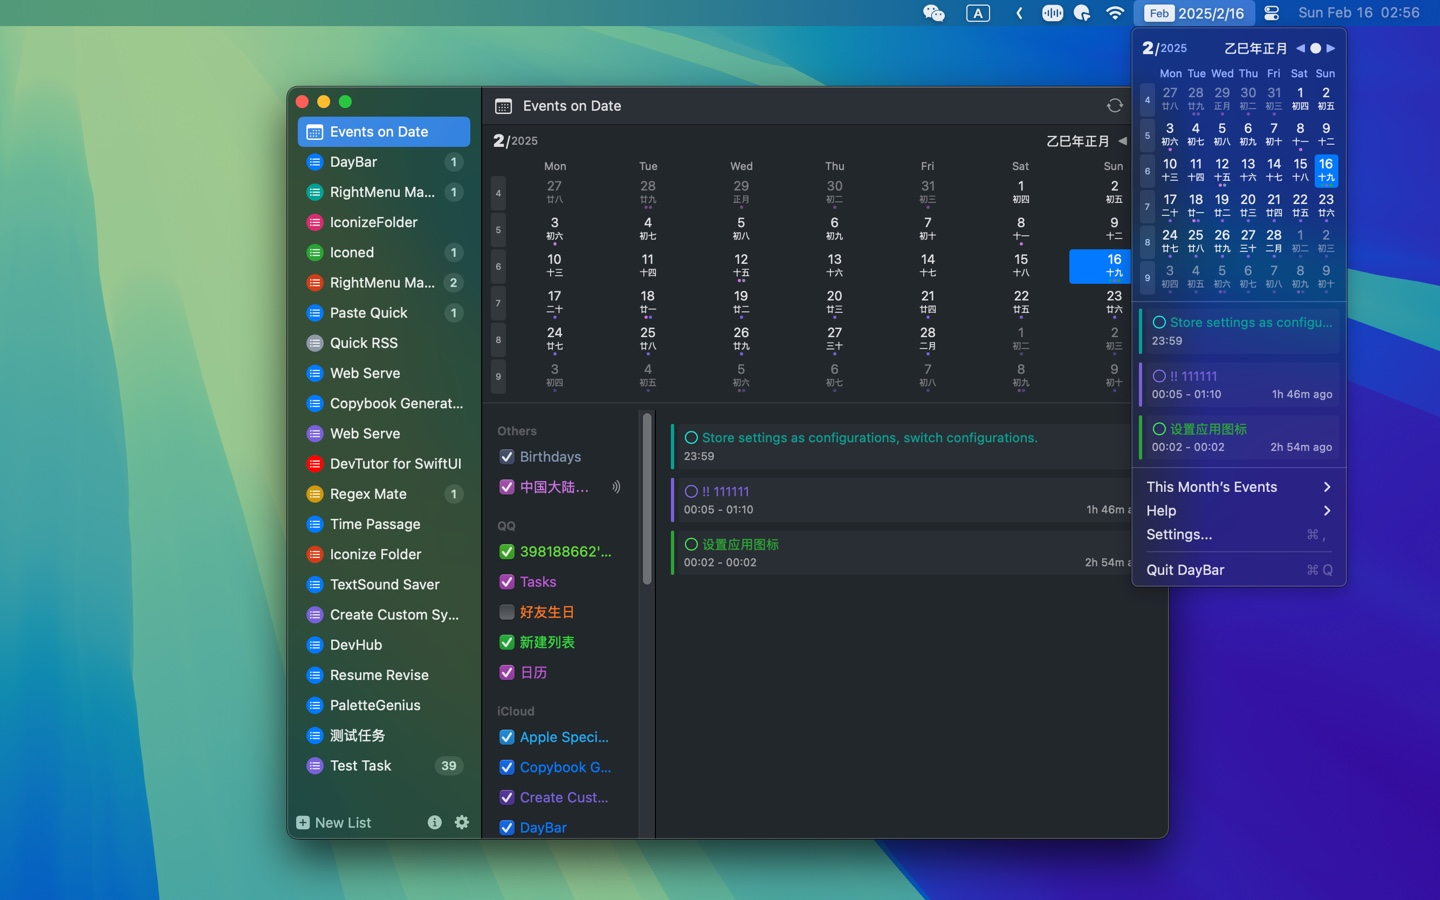
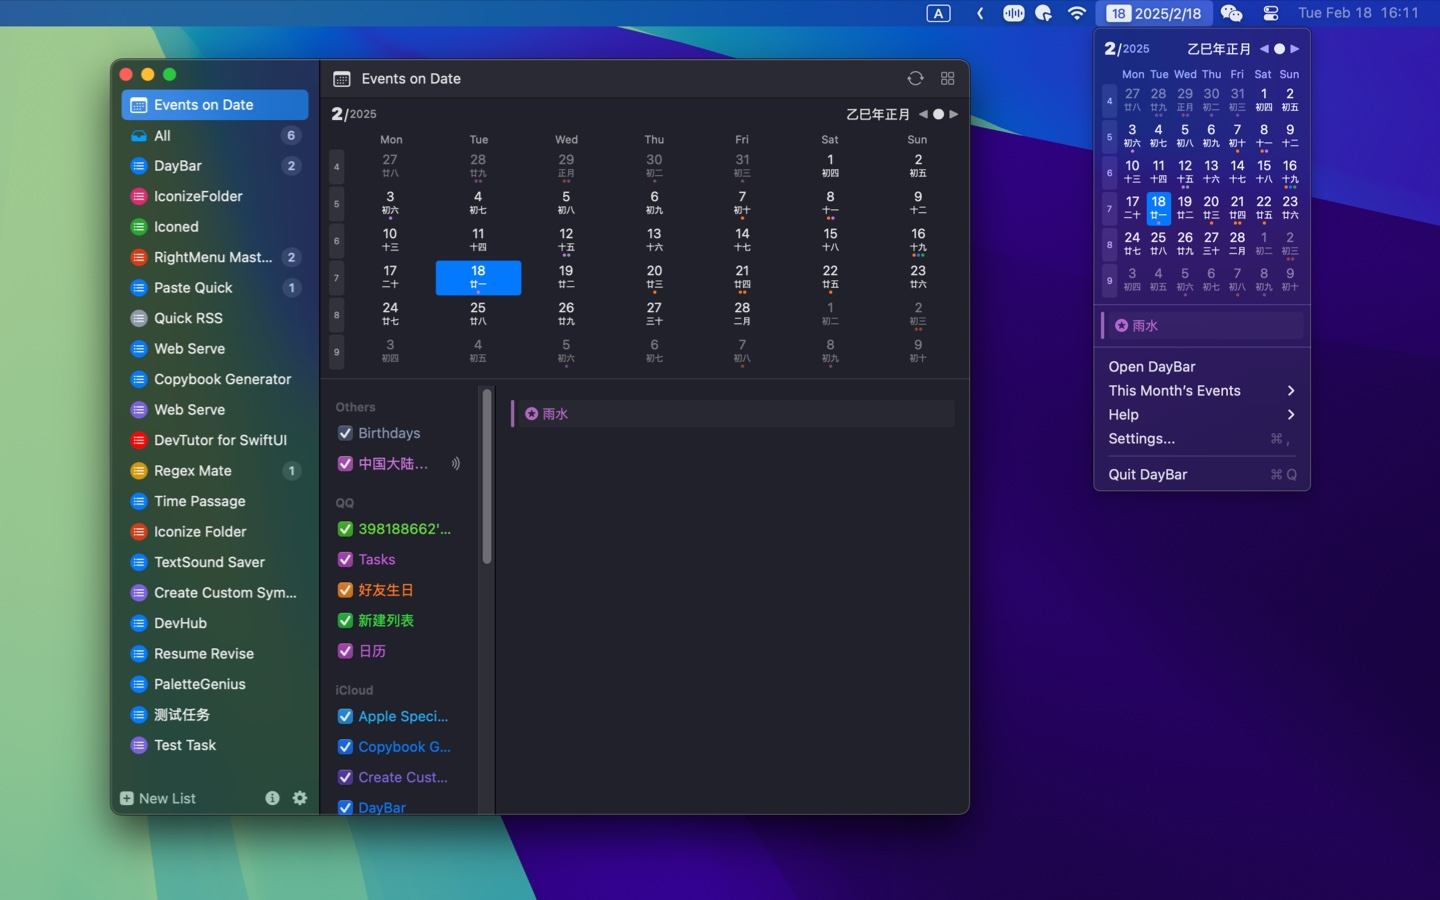
released v2.1.0

diff --git a/CHANGELOG.md b/CHANGELOG.md
@@ -5,6 +5,24 @@ Changelog
 <img alt="DayBar AppStore" src="https://jaywcjlove.github.io/sb/download/macos.svg" height="51">
 </a>
 
+## [v2.1.0](https://github.com/jaywcjlove/daybar/releases/tag/v2.1.0)
+
+- Fix: Fix the issue of opening the Calendar app.
+- Style: Modify time formatting for calendar event list.
+- Style: Modify calendar selection style.
+- Feat: Add "All" category.
+- Feat: Add version check feature.
+- Feat: Add open main window menu. 
+
+---
+
+- 样式： 修改日历事件列表的时间格式。
+- 样式： 修改日历选择样式。
+- 功能： 添加“全部”类别。
+- 修复： 修复打开日历应用程序时的问题。
+- 功能： 添加版本检查功能。
+- 功能： 添加打开主窗口菜单。
+
 ## [v2.0.0](https://github.com/jaywcjlove/daybar/releases/tag/v2.0.0)
 
 - Feat: Added todo feature  

diff --git a/README.md b/README.md
@@ -26,6 +26,7 @@
 ![DayBar 1](./assets/screenshots-1.jpg)
 ![DayBar 2](./assets/screenshots-2.jpg)
 ![DayBar 3](./assets/screenshots-3.jpg)
+![DayBar 4](./assets/screenshots-4.jpg)
 
 DayBar is an application that displays the local date and reminder events in the menu bar. Click on DayBar in the menu bar to view the calendar, calendar events, and reminders, and it supports synchronization with Apple Calendar. It integrates calendar and reminder functions into the status bar menu for easy management and viewing, while turning reminders into simple and beautiful to-do items.
 

diff --git a/README.zh.md b/README.zh.md
@@ -26,6 +26,7 @@
 ![DayBar 1](./assets/screenshots-1.jpg)
 ![DayBar 2](./assets/screenshots-2.jpg)
 ![DayBar 3](./assets/screenshots-3.jpg)
+![DayBar 4](./assets/screenshots-4.jpg)
 
 DayBar 是一款在菜单栏显示本地日期和提醒事件的应用。点击菜单栏中的 DayBar，即可查看日历、日历事件和提醒事项，并支持与 Apple 日历同步。它将日历和提醒功能整合到状态栏菜单，方便管理和查看，同时让提醒事项呈现为简洁美观的待办事项。
 
